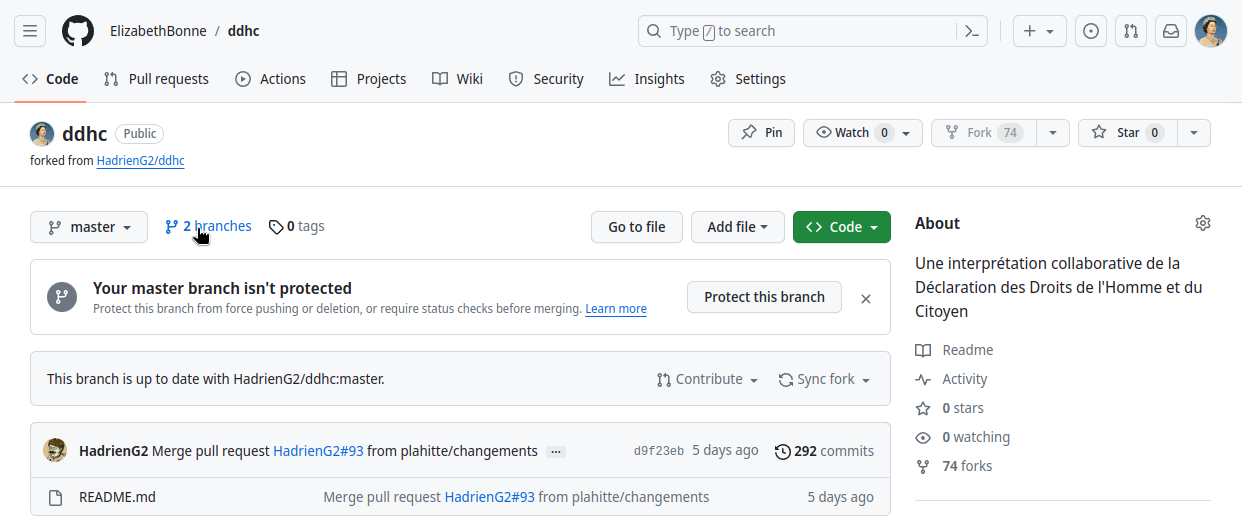
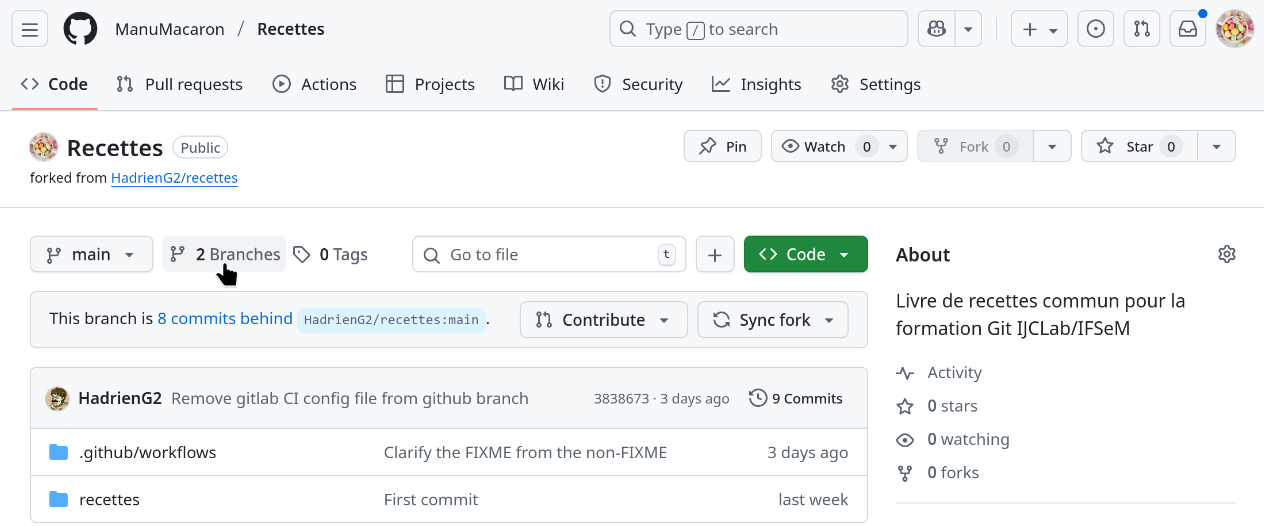
Fin de la conversion/extension des supports GitHub existants

diff --git a/TP/src/part2/github/3-contribution.md b/TP/src/part2/github/3-contribution.md
@@ -1,8 +1,6 @@
 # Contribuer à un dépôt existant
 
-## Préparation
-
-### Rappel : _Forks_ et _pull requests_
+## Introduction
 
 Dans ce parcours, vous aviez en réalité accès au dépôt GitHub
 [« HadrienG2/Recettes »](https://github.com/HadrienG2/Recettes) depuis le début,
@@ -11,7 +9,7 @@ libre. Mais pour des raisons évidentes de sécurité, cet accès est en lecture
 seule et ne vous permet pas de modifier directement les fichiers du dépôt.
 
 Maintenant vous avez un compte GitHub, le mainteneur du dépôt pourrait vous
-accoder un accès en écriture, comme dans le parcours [« Gitlab
+accorder un accès en écriture, comme dans le parcours [« Gitlab
 fermé »](../gitlab/1-intro.md). Mais il faut comprendre que cela reflète une
 grande confiance de sa part:
 
@@ -23,12 +21,13 @@ grande confiance de sa part:
   créer des _releases_. Pour un projet logiciel, cela ouvre la porte aux
   attaques de type _supply chain_, comme [celle récemment survenue contre le
   projet `xz`](https://en.wikipedia.org/wiki/XZ_Utils_backdoor).
-- Et même quand les mainteneurs acceptent d'explorer des configurations non
-  standard, difficiles à mettre en place et inhabituelles pour les autres
-  contributeurs, la permission de pousser des branches reste irrémédiablement
-  couplée à celle de modifier ou supprimer les branches d'autres développeurs (à
-  l'exception typiquement de la branche principale[^protected-branches]). Ce
-  couplage suffit déjà à causer pas mal de dégâts en interne.
+- Pour contourner ce problème, les mainteneurs peuvent se tourner vers des
+  configurations non standard. Mais elles sont difficiles à mettre en place et
+  inhabituelles pour les autres contributeurs. Et la permission de pousser des
+  branches reste irrémédiablement couplée à celle de modifier ou supprimer les
+  branches d'autres développeurs (à l'exception typiquement de la branche
+  principale[^protected-branches]), ce qui suffit déjà à causer pas mal de
+  dégâts en interne.
 
 Ce mode d'accès au dépôt n'est donc pas adapté quand on souhaite recevoir des
 contributions de parfaits inconnus comme c'est l'usage dans la communauté
@@ -98,6 +97,9 @@ avant de passer à la suite.
                 intéressant que pour des modifications très simples comme
                 corriger une faute d'orthographe dans un fichier README par
                 exemple.
+
+
+## Préparation
 
 ### Création du _fork_
 
@@ -458,4 +460,138 @@ officiel du projet.
 
 </div>
 
-TODO
+### Soumission au dépôt officiel
+
+Une fois que vous avez mis des changements en ligne sous la forme d’une branche
+sur votre _fork_, vous pouvez demander l’intégration de ces changements au dépôt
+officiel avec une fonctionnalité des forges git modernes, la _pull request_.
+Cette fonctionnalité est également appelée _merge request_ par GitLab, mais
+comme nous utilisons GitHub dans ce TP, nous nous en tiendrons à sa terminologie
+afin d’éviter toute confusion.
+
+Comme son nom l’indique, une _pull request_ invite les mainteneurs du dépôt
+officiel à intégrer vos changements au projet en fusionnant les nouveautés de
+votre branche dans un historique officiel (généralement la branche `main`). Ce
+nom rend hommage à la commande `git pull`, dont nous avons vu qu'elle sert à
+obtenir et fusionner des changements distants.
+
+Vous avez peut-être remarqué durant l'étape précédente que GitHub vous fournit
+plusieurs raccourcis pour créer une _pull request_ lorsque vous poussez une
+branche sur votre _fork_ :
+
+- Dans la console, après avoir exécuté la commande `git push`, une URL s'affiche
+  que vous pouvez suivre avec votre navigateur web lancer la création de la
+  _pull request_.
+
+  ![Lien pour créer une pull request dans la sortie de git
+  push](../../images/github-push-pr-link.png)
+
+- Dans l'interface web de votre _fork_ sur GitHub, quand vous êtes connecté à
+  votre compte, un bouton s'affiche temporairement quelques temps après avoir
+  poussé des commits sur une branche. Ce bouton vous permet aussi de créer une
+  _pull request_ à partir de cette branche.
+
+  ![Lien pour créer une pull request dans l'interface web du
+  fork](../../images/github-new-pull-request-shortcut.png)
+
+Mais même si vous avez ignoré tous ces raccourcis, vous pouvez toujours créer
+« manuellement » une _pull request_ de la façon que nous allons décrire
+maintenant.
+
+D'abord, allez sur l’interface web de votre _fork_ et affichez la liste des
+branches avec le lien « N branches » en haut à gauche, un peu en dessous du nom
+du dépôt :
+
+![Lien donnant accès à la liste des
+branches](../../images/github-branch-list-button.png)
+
+Ensuite, trouvez la branche dont vous voulez soumettre les changements dans la
+liste et ouvrez le menu associé avec l'icône « points de suspension » sur la
+droite :
+
+![Accès au menu associé à une branche](../../images/github-branch-menu.png)
+
+Vous y trouverez l'option « New Pull Request » qui vous permet d'initier le
+processus de soumission de changements :
+
+<center>
+
+![Bouton « New pull request » dans le menu de
+branche](../../images/github-new-pull-request-button.png)
+
+</center>
+
+Après avoir fait tout ça, vous vous retrouverez face l'interface de création de
+_pull request_ que vous auriez vue directement si vous aviez utilisé un des
+raccourcis évoqués précédemment :
+
+![Interface de création d’une pull
+request](../../images/github-create-pull-request.png)
+
+De haut en bas, cette interface contient…
+
+- En haut, une section à laquelle vous n’aurez presque jamais besoin de toucher
+  qui vous permet de spécifier quelle branche de votre _fork_ (ou d’un autre
+  dépôt) vous voulez fusionner dans quelle branche du dépôt officiel.
+- Ensuite, un formulaire pour donner un nom à votre _pull request_ ainsi qu’une
+  description plus détaillée si besoin. Cette description peut être formatée
+  avec [le dialecte local de
+  Markdown](https://docs.github.com/fr/get-started/writing-on-github/getting-started-with-writing-and-formatting-on-github/basic-writing-and-formatting-syntax).
+- En bas de ce formulaire, une case à cocher « Allow edits by maintainers » qui
+  permet aux mainteneurs du dépôt d’ajouter des changements à votre branche (ça
+  permet de fluidifier un peu le processus de passage en revue d’une
+  contribution en faisant directement les modifications mineures plutôt que de
+  vous demander de les faire vous-même).
+- Près de cette case à cocher, un bouton « Create pull request » qui termine la
+  saisie et crée la _pull request_, avec sur le côté droit une option un peu
+  trop bien cachée (flèche descendante) pour créer la _pull request_ en mode
+  brouillon. Cela signifie que vous informez les mainteneurs que vous aurez
+  bientôt des changements à intégrer et leur permettez d’y jeter un œil, mais
+  ne souhaitez pas qu’ils soient intégrés tout de suite, car vous n’avez pas fini
+  le travail.
+- En dessous de tout ça, pour information, une visualisation des changements
+  apportés par votre branche : liste des commits et différences par rapport à la
+  branche de destination.
+
+Pour les mainteneurs, une _pull request_ se présentera ensuite sous la forme du
+titre et de la description que vous avez choisi, d’une visualisation des
+changements proposés, et d’une interface permettant d’en discuter (pour proposer
+des modifications avant intégration par exemple). Nous allons voir cette
+interface ensemble lorsque l'un d'entre vous sera arrivé à ce point du TP.
+
+Si des changements sont demandés par un mainteneur, vous pouvez ajouter ceux-ci
+à votre branche locale via de nouveaux commits et de les pousser sur votre
+_fork_ avec un simple `git push`. La _pull request_ associée sera alors mise à
+jour automatiquement.
+
+Une fois la _pull request_ fusionnée, vous pourrez supprimer la branche de
+développement associée de vos dépôts locaux et distants…
+
+```bash
+{{#include ../../5-reseau-forges.sh:delete-dev-branch-github}}
+```
+
+…puis recommencer un autre développement depuis la branche `main` du dépôt
+officiel quand vous voudrez en reprenant le cheminement indiqué ci-dessus à
+partir du début.
+
+
+## À vous de jouer !
+
+À ce stade, vous en savez assez pour commencer à vous amuser avec notre livre de
+recettes. Vous pouvez par exemple :
+
+- ajouter une nouvelle recette de votre choix (titre, ingrédients, étapes, temps
+  de préparation/cuisson, etc.) ;
+- améliorer une recette existante en corrigeant l’orthographe, en précisant les
+  quantités ou en clarifiant une étape ;
+- proposer des variantes d'une recette ;
+
+Modifiez le texte comme vous le souhaitez, en n’hésitant pas à créer des commits
+en cours de route pour vous pouvoir revenir facilement en arrière. Puis, poussez
+votre branche finalisée sur le dépôt et soumettez une _merge request_ vers la
+branche `main` pour terminer ce TP.
+
+Une fois que vous serez à l'aise avec cette méthode de travail, vous pourrez
+vous lancer dans la [création de votre dépôt de recettes
+personnelles](4-depot-personnel/1-intro.md).

diff --git a/TP/src/part2/gitlab/5-travail-equipe/3-deploiement-continu.md b/TP/src/part2/gitlab/5-travail-equipe/3-deploiement-continu.md
@@ -236,6 +236,12 @@ déploiement continu** pour notre livre de recettes collaboratif. Il ne vous
 reste plus qu’à enrichir le contenu et à faire évoluer le site au fil des
 contributions de votre brigade.
 
+N'hésitez pas à aller lire la [conclusion commune](../conclusion-commune.md).
+Puis, si vous êtes en avance, commencez à jeter un oeil au parcours alternatif
+[« GitHub ouvert »](../github/1-intro.md) du TP. Celui-ci vous présentera, sur
+une autre forge couramment utilisée (GitHub), une méthode de travail plus
+adaptée pour des projets _open-source_ ouverts aux contributions extérieures.
+
 
 ---
 

diff --git a/TP/src/SUMMARY.md b/TP/src/SUMMARY.md
@@ -26,7 +26,6 @@
     * [Projet commun](part2/github/5-travail-equipe/2-projet-commun.md)
     * [Déploiement
       continu](part2/github/5-travail-equipe/3-deploiement-continu.md)
-  - [TODO: A migrer](part2/github/TODO.md)
 - [Parcours « GitLab fermé »](part2/gitlab/1-intro.md)
   - [Accès web et SSH](part2/gitlab/2-acces.md)
   - [Contribuer à un dépôt](part2/gitlab/3-contribution.md)
